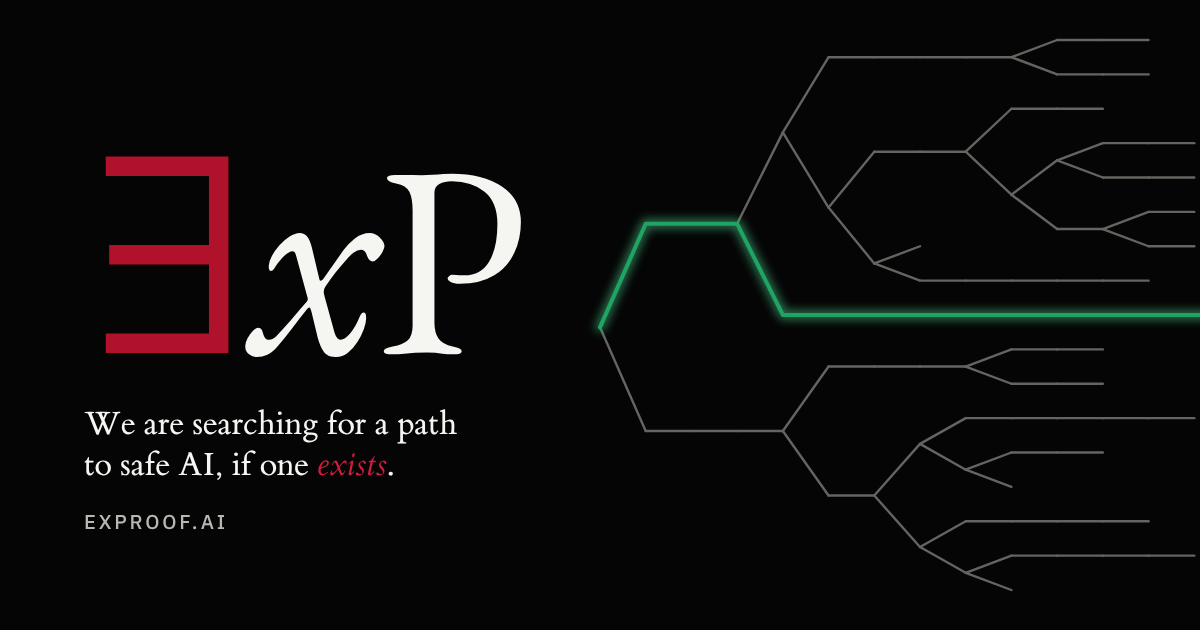
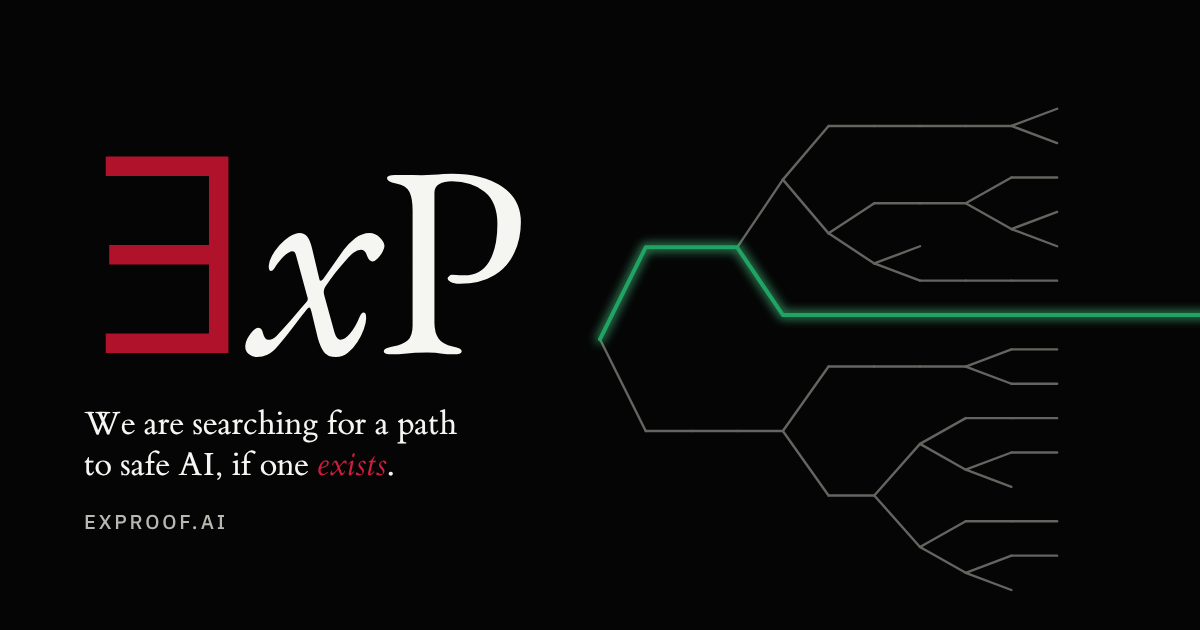
Link-preview card: dead branches stop well short of the right edge, so only the green path crosses
Claude-Session: https://claude.ai/code/session_013FGiDs7mZnjrUdtcVnwVhU

diff --git a/tools/og-card/card.html b/tools/og-card/card.html
@@ -83,6 +83,12 @@ while (queue.length) {
   if (kids.length === 2 && rng() < 0.5) kids.reverse();
   kids.forEach(function (k) { var ch = make(n, n.depth + 1, k.win); n.children.push(ch); queue.push(ch); });
 }
+// Trim: dead branches stop CUT levels before the end, so only the witness path crosses the last stretch.
+var CUT = +(Q.get('cut') || 1);
+if (CUT > 1) {
+  nodes.forEach(function (n) { n.children = n.children.filter(function (c) { return c.win || c.depth <= D - CUT; }); });
+  var keep = []; (function walk(n) { keep.push(n); n.children.forEach(walk); })(root); nodes = keep;
+}
 // Tidy layout, as on the site.
 (function place(n) {
   if (!n.children.length) { n.top = [0]; n.bot = [0]; return; }

diff --git a/tools/og-card/render.py b/tools/og-card/render.py
@@ -6,12 +6,15 @@ Run from the repository root, with a local server running there:
 
 The tree uses the generator and tidy layout from assets/search.js, at depth 14, with a
 fixed seed. Change SEED for a different tree; the other parameters set the layout.
+The cut parameter trims the dead branches so they stop that many levels before the end, leaving the
+green witness path to cross the last stretch alone.
 """
 from playwright.sync_api import sync_playwright
 
 SEED = 208
 PARAMS = ("v=x&D=14&N=150&br=1.6&st=0.7&side=1.5&ms=290&umax=40&ls=34"
-          "&my=-62&ml=84&tx0=600&tx1=1240&gy=315&b0=40&b1=590")
+          "&my=-62&ml=84&tx0=600&tx1=1240&gy=315&b0=40&b1=590"
+          "&cut=4")
 URL = f"http://localhost:8000/tools/og-card/card.html?seed={SEED}&{PARAMS}"
 
 with sync_playwright() as p:

diff --git a/README.md b/README.md
@@ -9,7 +9,7 @@ Static site for the AI safety research group of Aydin Mohseni and Daniel Herrman
 - `assets/site.js`: review mode, publication filters, citation copy buttons.
 - `assets/search.js`: the background search animation.
 - `assets/favicon.svg`: the ∃xP monogram.
-- `assets/og-card.png`: the 1200 × 630 link-preview image that Slack, X, LinkedIn and others show when the site is shared. Every page names it in its `og:image` tag. Its source is `tools/og-card/card.html`; regenerate it with `python3 tools/og-card/render.py` (with a local server running at the repository root), and change `SEED` there for a different tree. The tree uses the generator and layout from `assets/search.js`. `tools/og-card/` also holds an IBM Plex Sans subset (SIL Open Font License) for the card's web address.
+- `assets/og-card.png`: the 1200 × 630 link-preview image that Slack, X, LinkedIn and others show when the site is shared. Every page names it in its `og:image` tag. Its source is `tools/og-card/card.html`; regenerate it with `python3 tools/og-card/render.py` (with a local server running at the repository root), and change `SEED` there for a different tree; `cut` sets how far short of the right edge the dead branches stop. The tree uses the generator and layout from `assets/search.js`. `tools/og-card/` also holds an IBM Plex Sans subset (SIL Open Font License) for the card's web address.
 - `assets/fonts/`: ET Book (MIT license, from tufte-css); wordmark subsets of STIX Two Math and EB Garamond (SIL Open Font License).
 - `docs/PLAN.md`: the site plan. `docs/WORDMARK-AND-SEARCH.md`: the wordmark and background spec. `DESIGN.md`: how the build follows and departs from it.
 - `STYLE.md`: the style guide (layout zones, section types, type, color, writing rules). `tools/check_layout.py`: the automated layout check.
